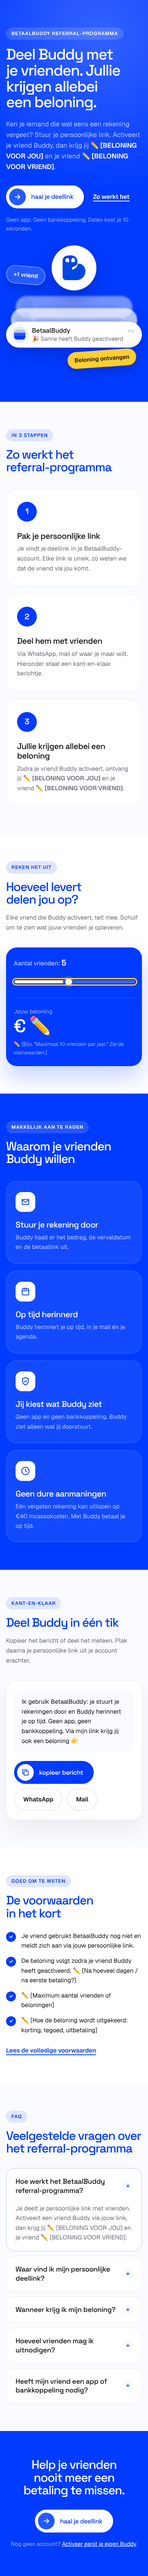
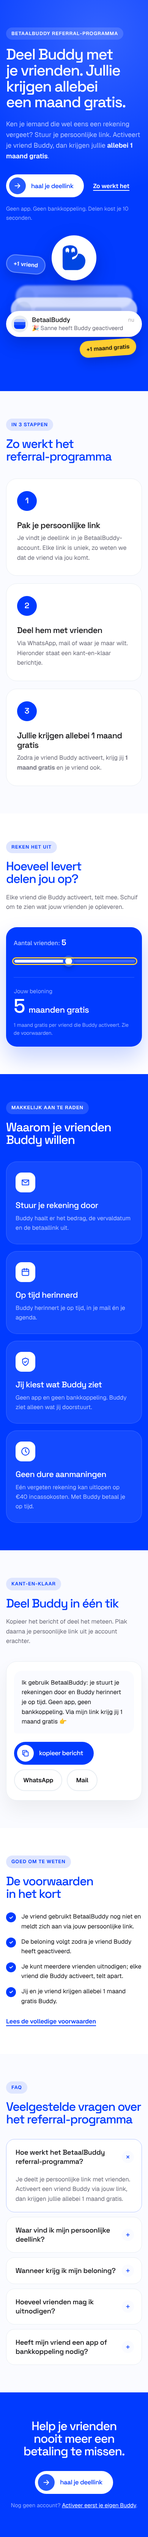
Referral page: fill in reward (1 month free for both) and fix calculator
The calculator showed a placeholder because no reward was set. It now
counts months (1 maand / N maanden gratis) and all reward, FAQ and
terms placeholders are filled in; only link comments remain.

Claude-Session: https://claude.ai/code/session_01A5zCZP9CHY2hTCamY7rpZ9

Changed region(s): [[0.0308, 0.0, 0.9538, 0.9962], [0.6462, 0.934, 0.7692, 0.9962], [0.2154, 0.9651, 0.2462, 0.9962]]

diff --git a/05. Web/referral-programma/preview.html b/05. Web/referral-programma/preview.html
@@ -154,6 +154,8 @@
 .bbr-calc__result { margin-top: 30px; padding-top: 24px; border-top: 1px solid rgba(255,255,255,.18); display: flex; flex-direction: column; }
 .bbr-calc__small { color: var(--bb-blue-text); font-size: .95rem; }
 .bbr-calc__total { font-family: var(--bb-display); font-weight: 500; letter-spacing: -0.05em; font-size: clamp(3rem, 6vw, 4.4rem); line-height: 1.05; }
+.bbr-calc__total { font-size: clamp(1.4rem, 2.4vw, 1.9rem); letter-spacing: -0.03em; }
+.bbr-calc__total b { font-weight: 500; font-size: clamp(3.2rem, 6vw, 4.6rem); letter-spacing: -0.05em; margin-right: .12em; }
 .bbr-calc__fine { color: var(--bb-blue-text); font-size: .85rem; margin-top: 12px; }
 
 /* why cards */
@@ -234,7 +236,7 @@
 <!--
   BetaalBuddy · Referral-programma
   Oxygen Builder > Code Block > tab "HTML"
-  Zoek op "✏" voor alles wat je nog moet invullen (beloning, links, voorwaarden).
+  Zoek op "✏" voor de links die je nog moet controleren.
 -->
 <link rel="preconnect" href="https://fonts.googleapis.com">
 <link rel="preconnect" href="https://fonts.gstatic.com" crossorigin>
@@ -247,11 +249,10 @@
     <div class="bbr-wrap bbr-hero__grid">
       <div class="bbr-hero__copy">
         <p class="bbr-eyebrow bbr-eyebrow--light">BetaalBuddy referral-programma</p>
-        <h1 id="bbr-h1" class="bbr-h1">Deel Buddy met je vrienden. Jullie krijgen allebei een beloning.</h1>
+        <h1 id="bbr-h1" class="bbr-h1">Deel Buddy met je vrienden. Jullie krijgen allebei een maand gratis.</h1>
         <p class="bbr-lead">
           Ken je iemand die wel eens een rekening vergeet? Stuur je persoonlijke link. Activeert je vriend Buddy,
-          dan krijg jij <strong class="bbr-reward">✏ [BELONING VOOR JOU]</strong> en je vriend
-          <strong class="bbr-reward">✏ [BELONING VOOR VRIEND]</strong>.
+          dan krijgen jullie <strong class="bbr-reward">allebei 1 maand gratis</strong>.
         </p>
         <div class="bbr-actions">
           <!-- ✏ Link naar de plek waar ingelogde gebruikers hun persoonlijke deellink zien -->
@@ -281,7 +282,7 @@
             <span class="bbr-notif__time">nu</span>
           </div>
         </div>
-        <div class="bbr-chip bbr-chip--a">Beloning ontvangen</div>
+        <div class="bbr-chip bbr-chip--a">+1 maand gratis</div>
         <div class="bbr-chip bbr-chip--b">+1 vriend</div>
       </div>
     </div>
@@ -305,15 +306,15 @@
         </li>
         <li class="bbr-step bbr-reveal">
           <span class="bbr-step__num">3</span>
-          <h3 class="bbr-h3">Jullie krijgen allebei een beloning</h3>
-          <p>Zodra je vriend Buddy activeert, ontvang jij <strong>✏ [BELONING VOOR JOU]</strong> en je vriend <strong>✏ [BELONING VOOR VRIEND]</strong>.</p>
+          <h3 class="bbr-h3">Jullie krijgen allebei 1 maand gratis</h3>
+          <p>Zodra je vriend Buddy activeert, krijg jij <strong>1 maand gratis</strong> en je vriend ook.</p>
         </li>
       </ol>
     </div>
   </section>
 
   <!-- ============ REKENTOOL ============ -->
-  <!-- ✏ data-reward = beloning per vriend (getal). data-unit = "euro" of een woord zoals "maanden". data-max = max. aantal vrienden. -->
+  <!-- data-reward = beloning per vriend (getal). data-unit / data-unit-plural = eenheid (of data-unit="euro" voor een bedrag). data-suffix = tekst erachter. data-max = max. aantal vrienden op de schuif. -->
   <section class="bbr-section" aria-labelledby="bbr-h2-calc">
     <div class="bbr-wrap bbr-calc-grid">
       <div>
@@ -321,14 +322,14 @@
         <h2 id="bbr-h2-calc" class="bbr-h2">Hoeveel levert delen jou op?</h2>
         <p class="bbr-body">Elke vriend die Buddy activeert, telt mee. Schuif om te zien wat jouw vrienden je opleveren.</p>
       </div>
-      <div class="bbr-calc bbr-reveal" id="bbr-calc" data-reward="0" data-unit="euro" data-max="10">
+      <div class="bbr-calc bbr-reveal" id="bbr-calc" data-reward="1" data-unit="maand" data-unit-plural="maanden" data-suffix="gratis" data-max="10">
         <label class="bbr-calc__label" for="bbr-range">Aantal vrienden: <output id="bbr-count" for="bbr-range">3</output></label>
         <input class="bbr-range" id="bbr-range" type="range" min="1" max="10" step="1" value="3">
         <div class="bbr-calc__result">
           <span class="bbr-calc__small">Jouw beloning</span>
-          <span class="bbr-calc__total" id="bbr-total" aria-live="polite">✏</span>
+          <span class="bbr-calc__total" id="bbr-total" aria-live="polite"><b>3</b> maanden gratis</span>
         </div>
-        <p class="bbr-calc__fine">✏ [Bijv. "Maximaal 10 vrienden per jaar." Zie de voorwaarden.]</p>
+        <p class="bbr-calc__fine">1 maand gratis per vriend die Buddy activeert. Zie de voorwaarden.</p>
       </div>
     </div>
   </section>
@@ -373,7 +374,7 @@
       </div>
       <!-- ✏ data-url = link die mee wordt gedeeld (vervang door de persoonlijke link als je die hier dynamisch kunt invullen) -->
       <div class="bbr-share bbr-reveal" id="bbr-share" data-url="https://betaalbuddy.nl/">
-        <p class="bbr-share__msg" id="bbr-msg">Ik gebruik BetaalBuddy: je stuurt je rekeningen door en Buddy herinnert je op tijd. Geen app, geen bankkoppeling. Via mijn link krijg jij ook een beloning 👉</p>
+        <p class="bbr-share__msg" id="bbr-msg">Ik gebruik BetaalBuddy: je stuurt je rekeningen door en Buddy herinnert je op tijd. Geen app, geen bankkoppeling. Via mijn link krijg jij 1 maand gratis 👉</p>
         <div class="bbr-share__btns">
           <button type="button" class="bbr-btn bbr-btn--blue bbr-copy" id="bbr-copy">
             <span class="bbr-btn__icon" aria-hidden="true"><svg viewBox="0 0 24 24"><rect x="8" y="8" width="12" height="12" rx="2"/><path d="M16 8V5a1 1 0 0 0-1-1H5a1 1 0 0 0-1 1v10a1 1 0 0 0 1 1h3"/></svg></span>
@@ -394,9 +395,9 @@
       <!-- ✏ Vul aan of pas aan naar jullie echte voorwaarden -->
       <ul class="bbr-checks">
         <li>Je vriend gebruikt BetaalBuddy nog niet en meldt zich aan via jouw persoonlijke link.</li>
-        <li>De beloning volgt zodra je vriend Buddy heeft geactiveerd. ✏ [Na hoeveel dagen / na eerste betaling?]</li>
-        <li>✏ [Maximum aantal vrienden of beloningen]</li>
-        <li>✏ [Hoe de beloning wordt uitgekeerd: korting, tegoed, uitbetaling]</li>
+        <li>De beloning volgt zodra je vriend Buddy heeft geactiveerd.</li>
+        <li>Je kunt meerdere vrienden uitnodigen; elke vriend die Buddy activeert, telt apart.</li>
+        <li>Jij en je vriend krijgen allebei 1 maand gratis Buddy.</li>
       </ul>
       <!-- ✏ Link naar de volledige voorwaarden -->
       <a class="bbr-link" href="/voorwaarden/">Lees de volledige voorwaarden</a>
@@ -411,19 +412,19 @@
       <div class="bbr-faq">
         <details class="bbr-faq__item" open>
           <summary>Hoe werkt het BetaalBuddy referral-programma?</summary>
-          <div class="bbr-faq__a"><p>Je deelt je persoonlijke link met vrienden. Activeert een vriend Buddy via jouw link, dan krijg jij ✏ [BELONING VOOR JOU] en je vriend ✏ [BELONING VOOR VRIEND].</p></div>
+          <div class="bbr-faq__a"><p>Je deelt je persoonlijke link met vrienden. Activeert een vriend Buddy via jouw link, dan krijgen jullie allebei 1 maand gratis.</p></div>
         </details>
         <details class="bbr-faq__item">
           <summary>Waar vind ik mijn persoonlijke deellink?</summary>
-          <div class="bbr-faq__a"><p>✏ [Bijv. "In je account onder Vrienden uitnodigen."]</p></div>
+          <div class="bbr-faq__a"><p>In je BetaalBuddy-account vind je je persoonlijke deellink.</p></div>
         </details>
         <details class="bbr-faq__item">
           <summary>Wanneer krijg ik mijn beloning?</summary>
-          <div class="bbr-faq__a"><p>✏ [Bijv. "Zodra je vriend Buddy heeft geactiveerd. Je krijgt een mail als de beloning binnen is."]</p></div>
+          <div class="bbr-faq__a"><p>Zodra je vriend Buddy via jouw link heeft geactiveerd, krijgen jullie allebei 1 maand gratis.</p></div>
         </details>
         <details class="bbr-faq__item">
           <summary>Hoeveel vrienden mag ik uitnodigen?</summary>
-          <div class="bbr-faq__a"><p>✏ [Bijv. "Zoveel als je wilt. Je ontvangt maximaal X beloningen per jaar."]</p></div>
+          <div class="bbr-faq__a"><p>Zoveel als je wilt. Elke vriend die Buddy activeert, levert jou 1 maand gratis op. Zie de voorwaarden voor de details.</p></div>
         </details>
         <details class="bbr-faq__item">
           <summary>Heeft mijn vriend een app of bankkoppeling nodig?</summary>
@@ -453,13 +454,13 @@
   "@type": "FAQPage",
   "mainEntity": [
     {"@type": "Question", "name": "Hoe werkt het BetaalBuddy referral-programma?",
-     "acceptedAnswer": {"@type": "Answer", "text": "Je deelt je persoonlijke link met vrienden. Activeert een vriend Buddy via jouw link, dan krijg jij [BELONING VOOR JOU] en je vriend [BELONING VOOR VRIEND]."}},
+     "acceptedAnswer": {"@type": "Answer", "text": "Je deelt je persoonlijke link met vrienden. Activeert een vriend Buddy via jouw link, dan krijgen jullie allebei 1 maand gratis."}},
     {"@type": "Question", "name": "Waar vind ik mijn persoonlijke deellink?",
-     "acceptedAnswer": {"@type": "Answer", "text": "[ANTWOORD]"}},
+     "acceptedAnswer": {"@type": "Answer", "text": "In je BetaalBuddy-account vind je je persoonlijke deellink."}},
     {"@type": "Question", "name": "Wanneer krijg ik mijn beloning?",
-     "acceptedAnswer": {"@type": "Answer", "text": "[ANTWOORD]"}},
+     "acceptedAnswer": {"@type": "Answer", "text": "Zodra je vriend Buddy via jouw link heeft geactiveerd, krijgen jullie allebei 1 maand gratis."}},
     {"@type": "Question", "name": "Hoeveel vrienden mag ik uitnodigen?",
-     "acceptedAnswer": {"@type": "Answer", "text": "[ANTWOORD]"}},
+     "acceptedAnswer": {"@type": "Answer", "text": "Zoveel als je wilt. Elke vriend die Buddy activeert, levert jou 1 maand gratis op. Zie de voorwaarden voor de details."}},
     {"@type": "Question", "name": "Heeft mijn vriend een app of bankkoppeling nodig?",
      "acceptedAnswer": {"@type": "Answer", "text": "Nee. BetaalBuddy werkt zonder app en zonder bankkoppeling. Je stuurt je rekening door en Buddy herinnert je op tijd, in je mail en je agenda."}}
   ]
@@ -498,6 +499,8 @@
     if (calc && range && count && total) {
       var reward = parseFloat(String(calc.dataset.reward || '0').replace(',', '.')) || 0;
       var unit = (calc.dataset.unit || 'euro').trim();
+      var plural = (calc.dataset.unitPlural || unit).trim();
+      var suffix = (calc.dataset.suffix || '').trim();
       var max = parseInt(calc.dataset.max, 10) || 10;
       range.max = max;
       var euro = new Intl.NumberFormat('nl-NL', { style: 'currency', currency: 'EUR', maximumFractionDigits: reward % 1 ? 2 : 0 });
@@ -506,9 +509,19 @@
         var n = parseInt(range.value, 10);
         count.textContent = n;
         range.style.setProperty('--bbr-fill', ((n - range.min) / (range.max - range.min)) * 100 + '%');
-        if (!reward) { total.textContent = '€ ✏'; return; }
-        var sum = n * reward;
-        total.textContent = unit === 'euro' ? euro.format(sum) : sum + ' ' + unit;
+        var sum = n * (reward || 1);
+        var big = document.createElement('b');
+        var rest = '';
+        if (unit === 'euro') {
+          big.textContent = euro.format(sum);
+        } else {
+          big.textContent = sum;
+          rest = ' ' + (sum === 1 ? unit : plural);
+        }
+        if (suffix) rest += ' ' + suffix;
+        total.textContent = '';
+        total.appendChild(big);
+        if (rest) total.appendChild(document.createTextNode(rest));
       };
       range.addEventListener('input', update);
       update();

diff --git a/05. Web/referral-programma/1-html.html b/05. Web/referral-programma/1-html.html
@@ -1,7 +1,7 @@
 <!--
   BetaalBuddy · Referral-programma
   Oxygen Builder > Code Block > tab "HTML"
-  Zoek op "✏" voor alles wat je nog moet invullen (beloning, links, voorwaarden).
+  Zoek op "✏" voor de links die je nog moet controleren.
 -->
 <link rel="preconnect" href="https://fonts.googleapis.com">
 <link rel="preconnect" href="https://fonts.gstatic.com" crossorigin>
@@ -14,11 +14,10 @@
     <div class="bbr-wrap bbr-hero__grid">
       <div class="bbr-hero__copy">
         <p class="bbr-eyebrow bbr-eyebrow--light">BetaalBuddy referral-programma</p>
-        <h1 id="bbr-h1" class="bbr-h1">Deel Buddy met je vrienden. Jullie krijgen allebei een beloning.</h1>
+        <h1 id="bbr-h1" class="bbr-h1">Deel Buddy met je vrienden. Jullie krijgen allebei een maand gratis.</h1>
         <p class="bbr-lead">
           Ken je iemand die wel eens een rekening vergeet? Stuur je persoonlijke link. Activeert je vriend Buddy,
-          dan krijg jij <strong class="bbr-reward">✏ [BELONING VOOR JOU]</strong> en je vriend
-          <strong class="bbr-reward">✏ [BELONING VOOR VRIEND]</strong>.
+          dan krijgen jullie <strong class="bbr-reward">allebei 1 maand gratis</strong>.
         </p>
         <div class="bbr-actions">
           <!-- ✏ Link naar de plek waar ingelogde gebruikers hun persoonlijke deellink zien -->
@@ -48,7 +47,7 @@
             <span class="bbr-notif__time">nu</span>
           </div>
         </div>
-        <div class="bbr-chip bbr-chip--a">Beloning ontvangen</div>
+        <div class="bbr-chip bbr-chip--a">+1 maand gratis</div>
         <div class="bbr-chip bbr-chip--b">+1 vriend</div>
       </div>
     </div>
@@ -72,15 +71,15 @@
         </li>
         <li class="bbr-step bbr-reveal">
           <span class="bbr-step__num">3</span>
-          <h3 class="bbr-h3">Jullie krijgen allebei een beloning</h3>
-          <p>Zodra je vriend Buddy activeert, ontvang jij <strong>✏ [BELONING VOOR JOU]</strong> en je vriend <strong>✏ [BELONING VOOR VRIEND]</strong>.</p>
+          <h3 class="bbr-h3">Jullie krijgen allebei 1 maand gratis</h3>
+          <p>Zodra je vriend Buddy activeert, krijg jij <strong>1 maand gratis</strong> en je vriend ook.</p>
         </li>
       </ol>
     </div>
   </section>
 
   <!-- ============ REKENTOOL ============ -->
-  <!-- ✏ data-reward = beloning per vriend (getal). data-unit = "euro" of een woord zoals "maanden". data-max = max. aantal vrienden. -->
+  <!-- data-reward = beloning per vriend (getal). data-unit / data-unit-plural = eenheid (of data-unit="euro" voor een bedrag). data-suffix = tekst erachter. data-max = max. aantal vrienden op de schuif. -->
   <section class="bbr-section" aria-labelledby="bbr-h2-calc">
     <div class="bbr-wrap bbr-calc-grid">
       <div>
@@ -88,14 +87,14 @@
         <h2 id="bbr-h2-calc" class="bbr-h2">Hoeveel levert delen jou op?</h2>
         <p class="bbr-body">Elke vriend die Buddy activeert, telt mee. Schuif om te zien wat jouw vrienden je opleveren.</p>
       </div>
-      <div class="bbr-calc bbr-reveal" id="bbr-calc" data-reward="0" data-unit="euro" data-max="10">
+      <div class="bbr-calc bbr-reveal" id="bbr-calc" data-reward="1" data-unit="maand" data-unit-plural="maanden" data-suffix="gratis" data-max="10">
         <label class="bbr-calc__label" for="bbr-range">Aantal vrienden: <output id="bbr-count" for="bbr-range">3</output></label>
         <input class="bbr-range" id="bbr-range" type="range" min="1" max="10" step="1" value="3">
         <div class="bbr-calc__result">
           <span class="bbr-calc__small">Jouw beloning</span>
-          <span class="bbr-calc__total" id="bbr-total" aria-live="polite">✏</span>
+          <span class="bbr-calc__total" id="bbr-total" aria-live="polite"><b>3</b> maanden gratis</span>
         </div>
-        <p class="bbr-calc__fine">✏ [Bijv. "Maximaal 10 vrienden per jaar." Zie de voorwaarden.]</p>
+        <p class="bbr-calc__fine">1 maand gratis per vriend die Buddy activeert. Zie de voorwaarden.</p>
       </div>
     </div>
   </section>
@@ -140,7 +139,7 @@
       </div>
       <!-- ✏ data-url = link die mee wordt gedeeld (vervang door de persoonlijke link als je die hier dynamisch kunt invullen) -->
       <div class="bbr-share bbr-reveal" id="bbr-share" data-url="https://betaalbuddy.nl/">
-        <p class="bbr-share__msg" id="bbr-msg">Ik gebruik BetaalBuddy: je stuurt je rekeningen door en Buddy herinnert je op tijd. Geen app, geen bankkoppeling. Via mijn link krijg jij ook een beloning 👉</p>
+        <p class="bbr-share__msg" id="bbr-msg">Ik gebruik BetaalBuddy: je stuurt je rekeningen door en Buddy herinnert je op tijd. Geen app, geen bankkoppeling. Via mijn link krijg jij 1 maand gratis 👉</p>
         <div class="bbr-share__btns">
           <button type="button" class="bbr-btn bbr-btn--blue bbr-copy" id="bbr-copy">
             <span class="bbr-btn__icon" aria-hidden="true"><svg viewBox="0 0 24 24"><rect x="8" y="8" width="12" height="12" rx="2"/><path d="M16 8V5a1 1 0 0 0-1-1H5a1 1 0 0 0-1 1v10a1 1 0 0 0 1 1h3"/></svg></span>
@@ -161,9 +160,9 @@
       <!-- ✏ Vul aan of pas aan naar jullie echte voorwaarden -->
       <ul class="bbr-checks">
         <li>Je vriend gebruikt BetaalBuddy nog niet en meldt zich aan via jouw persoonlijke link.</li>
-        <li>De beloning volgt zodra je vriend Buddy heeft geactiveerd. ✏ [Na hoeveel dagen / na eerste betaling?]</li>
-        <li>✏ [Maximum aantal vrienden of beloningen]</li>
-        <li>✏ [Hoe de beloning wordt uitgekeerd: korting, tegoed, uitbetaling]</li>
+        <li>De beloning volgt zodra je vriend Buddy heeft geactiveerd.</li>
+        <li>Je kunt meerdere vrienden uitnodigen; elke vriend die Buddy activeert, telt apart.</li>
+        <li>Jij en je vriend krijgen allebei 1 maand gratis Buddy.</li>
       </ul>
       <!-- ✏ Link naar de volledige voorwaarden -->
       <a class="bbr-link" href="/voorwaarden/">Lees de volledige voorwaarden</a>
@@ -178,19 +177,19 @@
       <div class="bbr-faq">
         <details class="bbr-faq__item" open>
           <summary>Hoe werkt het BetaalBuddy referral-programma?</summary>
-          <div class="bbr-faq__a"><p>Je deelt je persoonlijke link met vrienden. Activeert een vriend Buddy via jouw link, dan krijg jij ✏ [BELONING VOOR JOU] en je vriend ✏ [BELONING VOOR VRIEND].</p></div>
+          <div class="bbr-faq__a"><p>Je deelt je persoonlijke link met vrienden. Activeert een vriend Buddy via jouw link, dan krijgen jullie allebei 1 maand gratis.</p></div>
         </details>
         <details class="bbr-faq__item">
           <summary>Waar vind ik mijn persoonlijke deellink?</summary>
-          <div class="bbr-faq__a"><p>✏ [Bijv. "In je account onder Vrienden uitnodigen."]</p></div>
+          <div class="bbr-faq__a"><p>In je BetaalBuddy-account vind je je persoonlijke deellink.</p></div>
         </details>
         <details class="bbr-faq__item">
           <summary>Wanneer krijg ik mijn beloning?</summary>
-          <div class="bbr-faq__a"><p>✏ [Bijv. "Zodra je vriend Buddy heeft geactiveerd. Je krijgt een mail als de beloning binnen is."]</p></div>
+          <div class="bbr-faq__a"><p>Zodra je vriend Buddy via jouw link heeft geactiveerd, krijgen jullie allebei 1 maand gratis.</p></div>
         </details>
         <details class="bbr-faq__item">
           <summary>Hoeveel vrienden mag ik uitnodigen?</summary>
-          <div class="bbr-faq__a"><p>✏ [Bijv. "Zoveel als je wilt. Je ontvangt maximaal X beloningen per jaar."]</p></div>
+          <div class="bbr-faq__a"><p>Zoveel als je wilt. Elke vriend die Buddy activeert, levert jou 1 maand gratis op. Zie de voorwaarden voor de details.</p></div>
         </details>
         <details class="bbr-faq__item">
           <summary>Heeft mijn vriend een app of bankkoppeling nodig?</summary>
@@ -220,13 +219,13 @@
   "@type": "FAQPage",
   "mainEntity": [
     {"@type": "Question", "name": "Hoe werkt het BetaalBuddy referral-programma?",
-     "acceptedAnswer": {"@type": "Answer", "text": "Je deelt je persoonlijke link met vrienden. Activeert een vriend Buddy via jouw link, dan krijg jij [BELONING VOOR JOU] en je vriend [BELONING VOOR VRIEND]."}},
+     "acceptedAnswer": {"@type": "Answer", "text": "Je deelt je persoonlijke link met vrienden. Activeert een vriend Buddy via jouw link, dan krijgen jullie allebei 1 maand gratis."}},
     {"@type": "Question", "name": "Waar vind ik mijn persoonlijke deellink?",
-     "acceptedAnswer": {"@type": "Answer", "text": "[ANTWOORD]"}},
+     "acceptedAnswer": {"@type": "Answer", "text": "In je BetaalBuddy-account vind je je persoonlijke deellink."}},
     {"@type": "Question", "name": "Wanneer krijg ik mijn beloning?",
-     "acceptedAnswer": {"@type": "Answer", "text": "[ANTWOORD]"}},
+     "acceptedAnswer": {"@type": "Answer", "text": "Zodra je vriend Buddy via jouw link heeft geactiveerd, krijgen jullie allebei 1 maand gratis."}},
     {"@type": "Question", "name": "Hoeveel vrienden mag ik uitnodigen?",
-     "acceptedAnswer": {"@type": "Answer", "text": "[ANTWOORD]"}},
+     "acceptedAnswer": {"@type": "Answer", "text": "Zoveel als je wilt. Elke vriend die Buddy activeert, levert jou 1 maand gratis op. Zie de voorwaarden voor de details."}},
     {"@type": "Question", "name": "Heeft mijn vriend een app of bankkoppeling nodig?",
      "acceptedAnswer": {"@type": "Answer", "text": "Nee. BetaalBuddy werkt zonder app en zonder bankkoppeling. Je stuurt je rekening door en Buddy herinnert je op tijd, in je mail en je agenda."}}
   ]

diff --git a/05. Web/referral-programma/3-js.js b/05. Web/referral-programma/3-js.js
@@ -29,6 +29,8 @@
     if (calc && range && count && total) {
       var reward = parseFloat(String(calc.dataset.reward || '0').replace(',', '.')) || 0;
       var unit = (calc.dataset.unit || 'euro').trim();
+      var plural = (calc.dataset.unitPlural || unit).trim();
+      var suffix = (calc.dataset.suffix || '').trim();
       var max = parseInt(calc.dataset.max, 10) || 10;
       range.max = max;
       var euro = new Intl.NumberFormat('nl-NL', { style: 'currency', currency: 'EUR', maximumFractionDigits: reward % 1 ? 2 : 0 });
@@ -37,9 +39,19 @@
         var n = parseInt(range.value, 10);
         count.textContent = n;
         range.style.setProperty('--bbr-fill', ((n - range.min) / (range.max - range.min)) * 100 + '%');
-        if (!reward) { total.textContent = '€ ✏'; return; }
-        var sum = n * reward;
-        total.textContent = unit === 'euro' ? euro.format(sum) : sum + ' ' + unit;
+        var sum = n * (reward || 1);
+        var big = document.createElement('b');
+        var rest = '';
+        if (unit === 'euro') {
+          big.textContent = euro.format(sum);
+        } else {
+          big.textContent = sum;
+          rest = ' ' + (sum === 1 ? unit : plural);
+        }
+        if (suffix) rest += ' ' + suffix;
+        total.textContent = '';
+        total.appendChild(big);
+        if (rest) total.appendChild(document.createTextNode(rest));
       };
       range.addEventListener('input', update);
       update();

diff --git a/05. Web/referral-programma/2-css.css b/05. Web/referral-programma/2-css.css
@@ -149,6 +149,8 @@
 .bbr-calc__result { margin-top: 30px; padding-top: 24px; border-top: 1px solid rgba(255,255,255,.18); display: flex; flex-direction: column; }
 .bbr-calc__small { color: var(--bb-blue-text); font-size: .95rem; }
 .bbr-calc__total { font-family: var(--bb-display); font-weight: 500; letter-spacing: -0.05em; font-size: clamp(3rem, 6vw, 4.4rem); line-height: 1.05; }
+.bbr-calc__total { font-size: clamp(1.4rem, 2.4vw, 1.9rem); letter-spacing: -0.03em; }
+.bbr-calc__total b { font-weight: 500; font-size: clamp(3.2rem, 6vw, 4.6rem); letter-spacing: -0.05em; margin-right: .12em; }
 .bbr-calc__fine { color: var(--bb-blue-text); font-size: .85rem; margin-top: 12px; }
 
 /* why cards */
